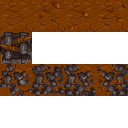
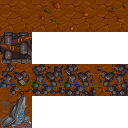
add altars

Changed region(s): [[0.0, 0.75, 0.25, 1.0]]

diff --git a/src/Scene/GameScene.php b/src/Scene/GameScene.php
@@ -11,6 +11,7 @@ use KPHPGame\Scene\GameScene\Colors;
 use KPHPGame\Scene\GameScene\Direction;
 use KPHPGame\Scene\GameScene\Enemy;
 use KPHPGame\Scene\GameScene\IceShard;
+use KPHPGame\Scene\GameScene\InfoPanel\Events\AltarVisitedWorldEvent;
 use KPHPGame\Scene\GameScene\InfoPanel\Events\AttackWorldEvent;
 use KPHPGame\Scene\GameScene\InfoPanel\Events\DieWorldEvent;
 use KPHPGame\Scene\GameScene\InfoPanel\Events\LevelUpWorldEvent;
@@ -121,9 +122,9 @@ class GameScene {
         if (\FFI::isNull($music)) {
             throw new \RuntimeException($this->sdl->getError());
         }
-        if (!$this->sdl->playMusic($music)) {
-            throw new \RuntimeException($this->sdl->getError());
-        }
+//        if (!$this->sdl->playMusic($music)) {
+//            throw new \RuntimeException($this->sdl->getError());
+//        }
 
         Logger::info('starting GameScene event loop');
         $this->renderAll();
@@ -425,12 +426,39 @@ class GameScene {
                 } else {
                     $player->on_portal = false;
                 }
+                if ($new_tile->kind === MapTile::ALTAR) {
+                    $this->onAltarEntered();
+                }
                 $this->onPlayerMoved();
                 return true;
             }
         }
 
         return false;
+    }
+
+    private function onAltarEntered(): void {
+        if ($this->world->altar_visited) {
+            return;
+        }
+        $this->world->altar_visited = true;
+        $roll = rand(0, 3);
+        $player = $this->world->player;
+        if ($roll === 1 && $player->hp !== $player->max_hp) {
+            $player->hp = $player->max_hp;
+            $this->info_panel_renderer->add_event(AltarVisitedWorldEvent::create("full HP"));
+        } else if ($roll === 2 && $player->mp !== $player->max_mp) {
+            $player->mp = $player->max_mp;
+            $this->info_panel_renderer->add_event(AltarVisitedWorldEvent::create("full MP"));
+        } else if ($roll === 3 && count($this->world->enemies) !== 0) {
+            $this->info_panel_renderer->add_event(AltarVisitedWorldEvent::create("enemy locations"));
+            foreach ($this->world->enemies as $enemy) {
+                $this->world->tiles[$enemy->pos]->revealed = true;
+            }
+        } else {
+            $this->addPlayerExp(20);
+            $this->info_panel_renderer->add_event(AltarVisitedWorldEvent::create("20 exp"));
+        }
     }
 
     private function onPlayerMoved(): void {
@@ -510,6 +538,7 @@ class GameScene {
     private function onStageCleared(): void {
         $this->info_panel_renderer->add_event(StageClearedWorldEvent::create());
         $this->addPlayerExp(15);
+        $this->world->tiles[$this->world->altar_pos]->revealed = true;
     }
 
     private function attackPlayer(Enemy $attacker) {
@@ -743,6 +772,9 @@ class GameScene {
             } elseif ($tile->kind === MapTile::ROCK) {
                 $tile_rect->x = ($tile->tileset_index * $tile_rect->w);
                 $tile_rect->y = $tile_rect->h * 2;
+            } else if ($tile->kind === MapTile::ALTAR) {
+                $tile_rect->x = 0;
+                $tile_rect->y = $tile_rect->h * 3;
             }
             $tile_pos->x = $tile->col * $tile_rect->w;
             $tile_pos->y = $tile->row * $tile_rect->h;

diff --git a/src/Scene/GameScene/WorldGenerator.php b/src/Scene/GameScene/WorldGenerator.php
@@ -135,21 +135,36 @@ class WorldGenerator {
             }
         }
 
+        while (true) {
+            $altar_col = rand(1, $num_cols - 1);
+            $altar_row = rand(1, $num_rows - 1);
+            $tile = $world->getTile($altar_row, $altar_col);
+            if ($world->tileIsFree($tile)) {
+                $world->altar_pos = $world->getTile($altar_row, $altar_col)->pos;
+                $tile->kind = MapTile::ALTAR;
+                break;
+            }
+        }
+
         // Deploy a portal.
         if ($world->stage < GlobalConfig::MAX_STAGE) {
             while (true) {
                 $portal_col = rand(1, $num_cols-1);
                 $portal_row = rand(1, $num_rows-1);
-                $can_deploy = $world->tileIsFree($world->getTile($portal_row, $portal_col)) &&
-                    $world->tileIsFree($world->getTile($portal_row, $portal_col+1)) &&
-                    $world->tileIsFree($world->getTile($portal_row+1, $portal_col)) &&
-                    $world->tileIsFree($world->getTile($portal_row+1, $portal_col+1));
+                $can_deploy = self::tileIsFree($world, $world->getTile($portal_row, $portal_col)) &&
+                    self::tileIsFree($world, $world->getTile($portal_row, $portal_col+1)) &&
+                    self::tileIsFree($world, $world->getTile($portal_row+1, $portal_col)) &&
+                    self::tileIsFree($world, $world->getTile($portal_row+1, $portal_col+1));
                 if ($can_deploy) {
                     self::deployPortal($world, $world->getTile($portal_row, $portal_col)->pos);
                     break;
                 }
             }
         }
+    }
+
+    public static function tileIsFree(World $world, MapTile $tile): bool {
+        return $tile->kind != MapTile::ALTAR && $world->tileIsFree($tile);
     }
 
     // Portal occupies 4 tiles, starting from top-left tile at $pos.

diff --git a/src/Scene/GameScene/InfoPanel/Events/AltarVisitedWorldEvent.php b/src/Scene/GameScene/InfoPanel/Events/AltarVisitedWorldEvent.php
@@ -1,0 +1,20 @@
+<?php
+
+namespace KPHPGame\Scene\GameScene\InfoPanel\Events;
+
+class AltarVisitedWorldEvent implements WorldEvent {
+
+    private string $message ;
+
+    private function __construct(string $message) {
+        $this->message = $message;
+    }
+
+    public static function create(string $message): AltarVisitedWorldEvent {
+        return new AltarVisitedWorldEvent($message);
+    }
+
+    public function __toString(): string {
+        return 'Altar grants ' . $this->message;
+    }
+}

diff --git a/src/Scene/GameScene/MapTile.php b/src/Scene/GameScene/MapTile.php
@@ -7,6 +7,7 @@ class MapTile {
     public const WALL  = 1;
     public const ROCK  = 2;
     public const PORTAL = 3;
+    public const ALTAR = 4;
 
     public $kind = self::EMPTY;
     public $tileset_index = 0;

diff --git a/src/Scene/GameScene/World.php b/src/Scene/GameScene/World.php
@@ -17,6 +17,9 @@ class World {
 
     public int $portal_pos = 0;
 
+    public int $altar_pos = 0;
+    public bool $altar_visited = false;
+
     /** @var Enemy[] */
     public $enemies = [];
 
